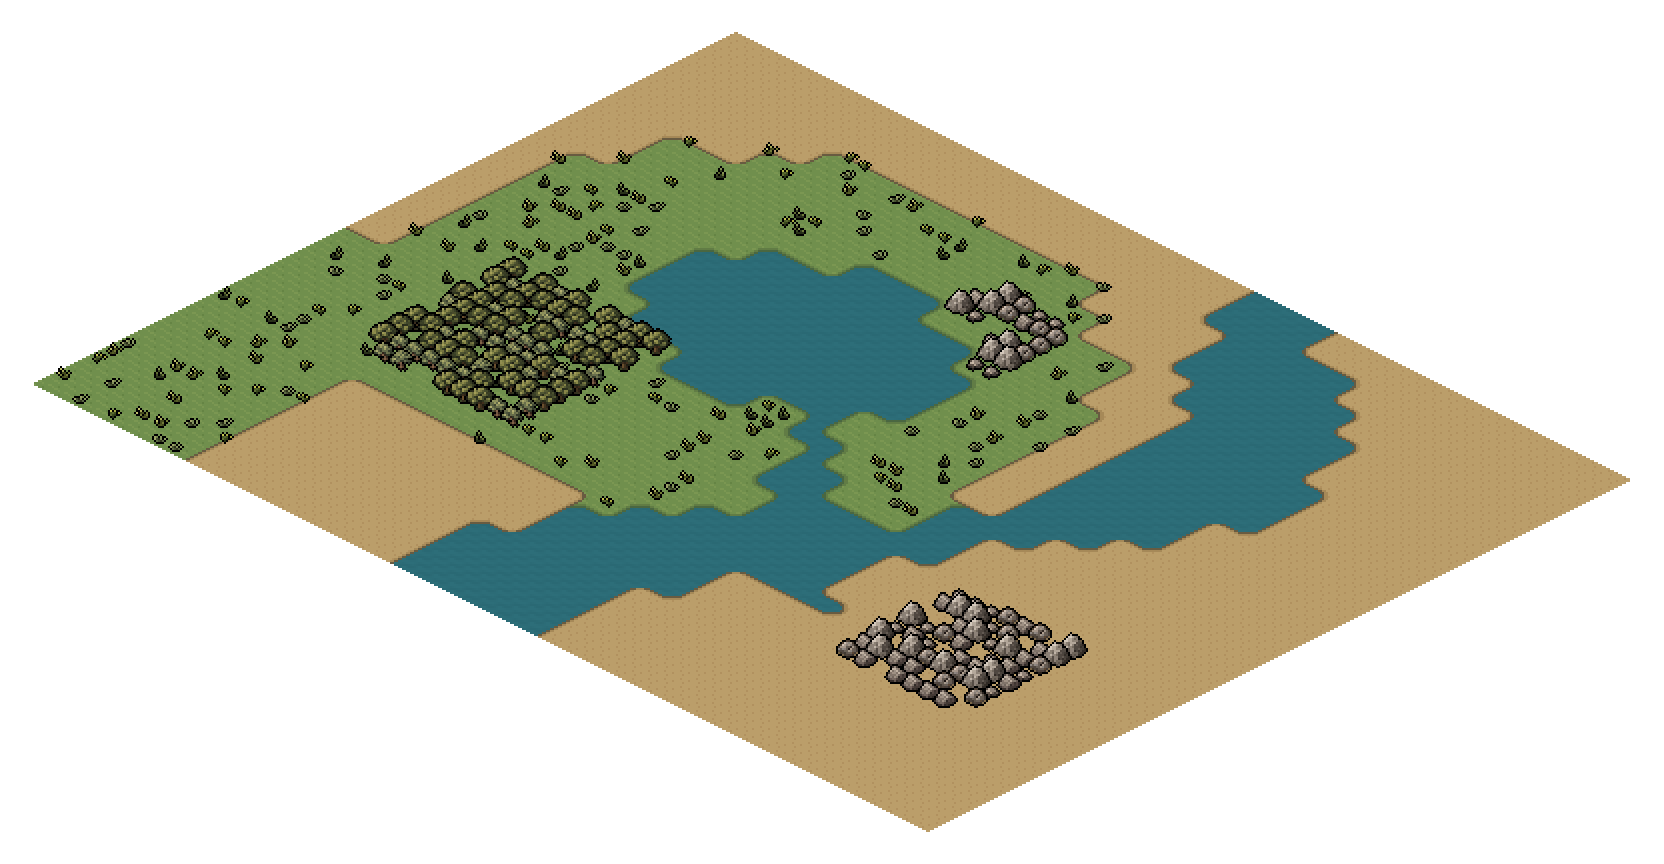
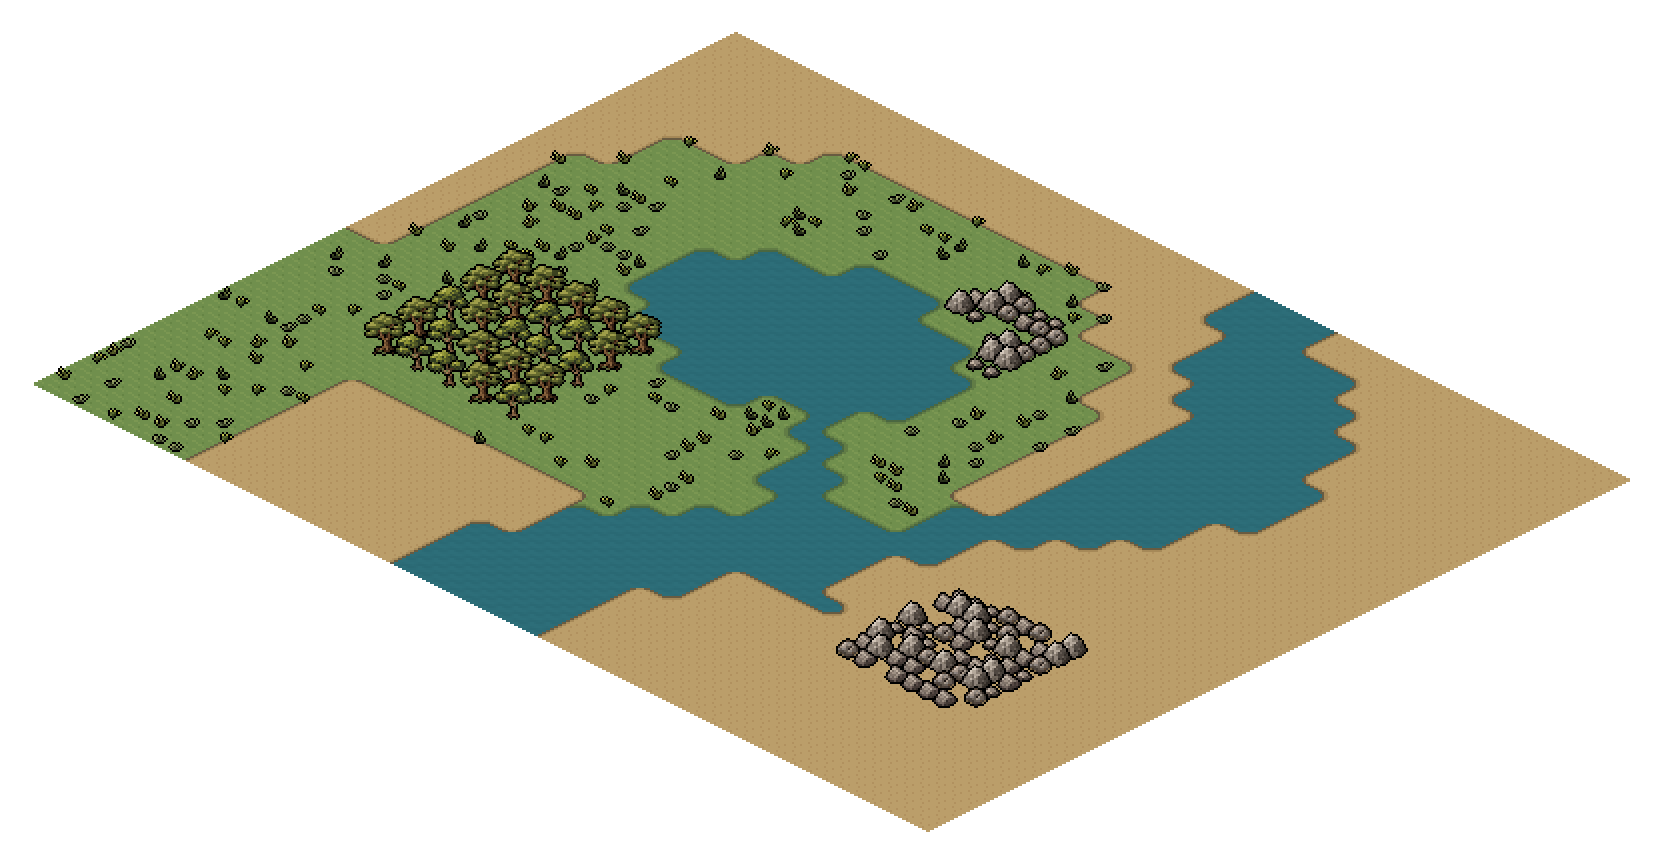
Redraw broad trees and place one tree per forest tile
Use newly drawn broad tree strips instead of the stretched attempt, sample them at wider game sizes, and anchor one tree at the center of each forest tile. Update runtime asset documentation and tests.

Changed region(s): [[0.2188, 0.2812, 0.4062, 0.5]]

diff --git a/internal/terrain/objects_test.go b/internal/terrain/objects_test.go
@@ -82,41 +82,31 @@ func TestDecoratedGroundAndDepth(t *testing.T) {
 	}
 }
 
-func TestForestMinimumAndMarginalProbabilities(t *testing.T) {
+func TestForestHasOneTileScaleTree(t *testing.T) {
 	w := New(256, 256)
 	for i := range w.cells {
 		w.SetTerrain(i%w.Width, i/w.Width, Forest)
 	}
 	counts := map[Object]int{}
-	three, four := 0, 0
+	trees := 0
 	for y := 0; y < w.Height; y++ {
 		for x := 0; x < w.Width; x++ {
-			n := 0
 			for _, object := range w.Objects(x, y) {
 				counts[object]++
 				if object == LargeTree || object == SmallTree {
-					n++
+					trees++
 				}
 			}
-			switch n {
-			case 3:
-				three++
-			case 4:
-				four++
-			default:
-				t.Fatal("forest has fewer than three trees", x, y, n)
+			if trees != y*w.Width+x+1 {
+				t.Fatal("forest must have exactly one tree per tile", x, y, trees)
+			}
+			if counts[Empty] != 3*(y*w.Width+x+1) {
+				t.Fatal("forest remaining subtiles must be empty", x, y)
 			}
 		}
 	}
-	total := float64(4 * w.Width * w.Height)
-	for object, want := range map[Object]float64{Empty: .1, LargeTree: .4, SmallTree: .4, GrassTuft1: .025, GrassTuft2: .025, GrassTuft3: .025, GrassTuft4: .025} {
-		fraction := float64(counts[object]) / total
-		if fraction < want-.004 || fraction > want+.004 {
-			t.Fatalf("forest object %d fraction %.4f", object, fraction)
-		}
-	}
-	if float64(three)/float64(three+four) < .79 || float64(three)/float64(three+four) > .81 {
-		t.Fatal("forest tile distribution", three, four)
+	if counts[LargeTree]+counts[SmallTree] != w.Width*w.Height {
+		t.Fatal("one tree per forest tile", counts)
 	}
 }
 

diff --git a/internal/assetbuild/build.go b/internal/assetbuild/build.go
@@ -20,7 +20,7 @@ func Generate(source, out string) error {
 	}
 	c := &graphics.Catalog{Manifest: graphics.Manifest{Version: 1, Sheets: []graphics.Sheet{
 		{File: "terrain.png", CellWidth: 16, CellHeight: 8, Columns: 8, Rows: 5},
-		{File: "objects.png", CellWidth: 24, CellHeight: 24, Columns: 8, Rows: 4},
+		{File: "objects.png", CellWidth: 24, CellHeight: 32, Columns: 8, Rows: 4},
 	}, Animations: map[string]graphics.Animation{}}}
 	for _, s := range c.Sheets {
 		c.Images = append(c.Images, image.NewNRGBA(image.Rect(0, 0, s.CellWidth*s.Columns, s.CellHeight*s.Rows)))
@@ -42,7 +42,7 @@ func Generate(source, out string) error {
 		}
 	}
 	for i, im := range objects {
-		if err := pack(1, i, im, image.Pt(12, 20), image.Pt(im.Bounds().Dx()/2, im.Bounds().Dy()-2)); err != nil {
+		if err := pack(1, i, im, image.Pt(12, 28), image.Pt(im.Bounds().Dx()/2, im.Bounds().Dy()-2)); err != nil {
 			return err
 		}
 	}
@@ -81,7 +81,7 @@ func Generate(source, out string) error {
 	if err != nil {
 		return err
 	}
-	return save(filepath.Join(out, "preview.png"), graphics.RenderPNG(c, items, scene.Bounds, 2))
+	return save(filepath.Join(out, "preview.png"), graphics.RenderPNG(c, items, graphics.SceneBounds(c, items, scene.Bounds), 2))
 }
 
 func save(path string, im image.Image) error {

diff --git a/internal/terrain/objects.go b/internal/terrain/objects.go
@@ -38,18 +38,9 @@ func (w *World) Objects(x, y int) [4]Object {
 	}
 	cell := w.Cell(x, y)
 	if cell.Decoration == Trees {
-		// Correlate four slots to retain 80/10/10 marginals AND at least three trees.
-		gap := -1
-		if roll(x, y, 0, 3, 5) < 4 {
-			gap = roll(x, y, 0, 4, 4)
-		}
-		for slot := range result {
-			if slot != gap {
-				result[slot] = tree(x, y, slot)
-			} else if roll(x, y, slot, 5, 2) == 0 {
-				result[slot] = tuft(x, y, slot)
-			}
-		}
+		// Forest is a tile-scale decoration: one broad tree per large tile,
+		// anchored at its center rather than one tree per subtile.
+		result[0] = tree(x, y, 0)
 		return result
 	}
 	for slot := range result {
@@ -91,6 +82,9 @@ func (w *World) Placements() []Placement {
 	return result
 }
 func (p Placement) Position() (float64, float64) {
+	if p.Object == LargeTree || p.Object == SmallTree {
+		return Project(float64(p.X)+.5, float64(p.Y)+.5)
+	}
 	return Project(float64(p.X)+float64(p.Slot%2)/2+.25, float64(p.Y)+float64(p.Slot/2)/2+.25)
 }
 

diff --git a/internal/assetbuild/objects.go b/internal/assetbuild/objects.go
@@ -19,7 +19,7 @@ var objectSources = []struct {
 	{"rock_medium2.png", 10, 9, 1}, {"rock_large.png", 14, 12, 1},
 	{"grass_0.png", 6, 5, 1}, {"grass_1.png", 6, 4, 1},
 	{"grass_2.png", 5, 5, 1}, {"grass_3.png", 6, 5, 1},
-	{"tree_0.png", 14, 12, 4}, {"tree_1.png", 12, 10, 4},
+	{"tree_0-redrawn.png", 22, 20, 4}, {"tree_1-redrawn.png", 20, 18, 4},
 }
 
 // blackOutline is a one-game-pixel, four-neighbor silhouette effect.
@@ -95,7 +95,7 @@ func LoadObjects(files fs.FS) ([terrain.ObjectSpriteCount]image.Image, error) {
 			// Keep the trunk/root pixels identical; only the crown uses animation frames.
 			if spec.Frames > 1 && frame > 0 {
 				base := sprites[index-frame]
-				for y := spec.Height - 3; y < spec.Height; y++ {
+				for y := spec.Height - max(3, spec.Height/3); y < spec.Height; y++ {
 					for x := 0; x < spec.Width; x++ {
 						sprite.Set(x, y, base.At(x, y))
 					}

diff --git a/internal/graphics/render.go b/internal/graphics/render.go
@@ -50,3 +50,12 @@ func Enlarge(src image.Image, scale int) *image.NRGBA {
 	}
 	return out
 }
+
+// SceneBounds includes tall sprites extending beyond the map's minimum export bounds.
+func SceneBounds(c *Catalog, items []DrawItem, minimum image.Rectangle) image.Rectangle {
+	for _, item := range items {
+		p := item.Position.Sub(c.Sprites[item.Sprite].Pivot)
+		minimum = minimum.Union(image.Rectangle{Min: p, Max: p.Add(c.Rect(item.Sprite).Size())})
+	}
+	return minimum
+}

diff --git a/render.go b/render.go
@@ -48,5 +48,5 @@ func (g *game) buildDrawList() []graphics.DrawItem {
 }
 func (g *game) exportImage(scale int) *image.NRGBA {
 	items := g.buildDrawList()
-	return graphics.RenderPNG(g.catalog, items, g.sceneCache.Ensure(g.w).Bounds, scale)
+	return graphics.RenderPNG(g.catalog, items, graphics.SceneBounds(g.catalog, items, g.sceneCache.Ensure(g.w).Bounds), scale)
 }

diff --git a/internal/terrain/scene_test.go b/internal/terrain/scene_test.go
@@ -21,7 +21,7 @@ func TestSceneCacheInvalidation(t *testing.T) {
 	}
 	w.SetTerrain(1, 1, Forest)
 	second := cache.Ensure(w)
-	if second == first || len(second.Decorations) < 3 {
+	if second == first || len(second.Decorations) != 1 {
 		t.Fatal("edit did not rebuild placements")
 	}
 	if cache.Ensure(w) != second {

diff --git a/README.md b/README.md
@@ -1,6 +1,6 @@
 # demo1 — 아이소메트릭 지형·오브젝트 에디터
 
-강·초원·황무지와 바위·나무 지형을 칠할 수 있는 Go/Ebitengine 데모입니다. **32×16픽셀 큰 타일**에 바닥과 장식 종류를 나누어 저장하고, 각 타일을 **16×8픽셀 서브타일 4개**로 그립니다. 지형 경계는 자동으로 연결되며, 잔디·바위·나무는 서브타일 단위로 배치됩니다.
+강·초원·황무지와 바위·나무 지형을 칠할 수 있는 Go/Ebitengine 데모입니다. **32×16픽셀 큰 타일**에 바닥과 장식 종류를 나누어 저장하고, 각 타일을 **16×8픽셀 서브타일 4개**로 그립니다. 지형 경계는 자동으로 연결되며, 잔디·바위는 서브타일 단위, 나무는 큰 타일 하나당 하나씩 배치됩니다.
 
 자료구조, 함수 호출 흐름, ASCII 아키텍처는 [ARCHITECTURE.md](ARCHITECTURE.md)를 참고하세요.
 
@@ -123,19 +123,19 @@ screenY = (u + v) × 8
 
 각 큰 타일의 서브타일 4칸마다 **최대 1개의 오브젝트**를 배치합니다. 바위나 나무를 직접 선택해 놓는 방식이 아니라, 큰 타일의 지형 종류에 따라 자동으로 정합니다.
 
-![게임용 오브젝트 시트 — 24×24 셀](assets/generated/objects.png)
+![게임용 오브젝트 시트 — 24×32 셀](assets/generated/objects.png)
 
 ### 종류와 크기
 
-크기는 투명 여백을 제외하고 게임 해상도로 샘플링하는 크기입니다. 외곽선은 가로·세로에 각각 2픽셀을 추가합니다. 잔디는 흔들림을 위해 가로 4픽셀 여백도 사용합니다. 최종 그림은 공통 24×24픽셀 셀에 발밑을 맞춰 넣습니다.
+크기는 투명 여백을 제외하고 게임 해상도로 샘플링하는 크기입니다. 외곽선은 가로·세로에 각각 2픽셀을 추가합니다. 잔디는 흔들림을 위해 가로 4픽셀 여백도 사용합니다. 최종 그림은 공통 24×32픽셀 셀에 발밑을 맞춰 넣습니다.
 
 | 오브젝트 | 종류 | 외곽선 추가 전 크기 |
 |---|---|---|
 | 바위 | 소 / 중 / 중2 / 대 | 8×6 / 11×8 / 10×9 / 14×12 |
 | 잔디 | 4종 | 6×5 / 6×4 / 5×5 / 6×5 |
-| 나무 | 큰 나무 / 작은 나무 | 14×12 / 12×10 |
+| 나무 | 큰 나무 / 작은 나무 | 22×20 / 20×18 |
 
-모든 오브젝트에는 상하좌우 실루엣을 따라 **1픽셀 검은 외곽선**을 붙입니다. 외곽선은 `assetgen`에서 게임 해상도로 생성하며, 원본 PNG는 보존합니다. 게임은 완성된 시트만 읽습니다. 외곽선 여백이 생겨도 발밑 기준점은 유지합니다.
+모든 오브젝트에는 상하좌우 실루엣을 따라 **1픽셀 검은 외곽선**을 붙입니다. 외곽선은 `assetgen`에서 게임 해상도로 생성하며, 원본 PNG는 보존합니다. 게임은 완성된 시트만 읽습니다. 나무 원본은 새로 그린 `tree_0-redrawn.png`, `tree_1-redrawn.png`를 사용하며 이전 원본은 보존합니다. 외곽선 여백이 생겨도 발밑 기준점은 유지합니다.
 
 오브젝트는 서브타일 중앙에 발밑을 맞추고 화면 아래쪽에 있는 것이 나중에 그려지도록 정렬합니다. 지형 전체를 먼저 그린 뒤 오브젝트를 그리므로 이웃 바닥이 나무나 바위를 덮지 않습니다.
 
@@ -146,18 +146,11 @@ screenY = (u + v) × 8
 | 강·황무지 | 없음 | 없음 | 없음 | 100% |
 | 초원 | 없음 | 없음 | 총 25% — 4종 각각 6.25% | 75% |
 | 바위(초원)·바위(황무지) | 없음 | 총 80% — 4종 각각 20% | 없음 | 20% |
-| 나무(초원) | 총 80% — 2종 각각 40% | 없음 | 총 10% — 4종 각각 2.5% | 10% |
+| 나무(초원) | 타일당 1개 — 2종 각각 50% | 없음 | 없음 | 없음 |
 
 표의 확률은 서브타일 기준입니다. 유한한 지도에서 실제 개수가 비율과 정확히 같아지는 것은 아닙니다.
 
-나무(초원)는 **큰 타일마다 나무 최소 3개**를 보장하기 위해 네 칸을 연관 지어 정합니다.
-
-1. 80% 확률로 나무 3개, 20% 확률로 나무 4개를 배치합니다.
-2. 나무 3개인 경우, 남길 서브타일 한 칸을 균등하게 고릅니다.
-3. 그 칸에는 50% 확률로 잔디, 50% 확률로 아무것도 놓지 않습니다.
-4. 나무 2종과 잔디 4종은 각각 균등하게 선택합니다.
-
-이렇게 하면 최소 3개 조건과 서브타일별 나무 80%·잔디 10%·빈칸 10%를 함께 만족합니다. 나무 지형의 네 서브타일은 독립 추첨이 아닙니다.
+나무(초원)는 **큰 타일 하나에 나무 하나**를 중앙에 배치합니다. 네 서브타일 중 하나를 고르는 방식이 아니며, 나무 종류만 좌표 해시로 균등하게 선택합니다. 나무는 타일 규모의 장식이므로 바위·잔디처럼 서브타일마다 독립 배치하지 않습니다.
 
 ### 결정적 의사난수
 
@@ -174,7 +167,7 @@ screenY = (u + v) × 8
 
 물은 대비가 낮은 잔물결과 짧은 수평 반사광을 사용합니다. 공간·시간 주기 함수로 이웃 타일의 무늬와 마지막→첫 프레임을 연결합니다. 초원·황무지 바닥과 바위는 애니메이션하지 않습니다. 잔디는 뿌리를 고정하고 잎을 좌우로 흔듭니다. 식물 속도는 UI에서 1/2/4/8배로 변경할 수 있으며 기본값은 2배입니다.
 
-나무는 잎 부분만 움직이며 원래 스프라이트의 아래 3행에 있는 줄기·뿌리는 고정합니다. 각 나무에 **0–7.875초의 시작 위상**을 0.125초 단위로 부여하므로 표시 프레임뿐 아니라 프레임 전환 시점도 분산됩니다. 위상은 좌표로 고정되고, 재실행하면 같은 위상을 가진 애니메이션이 실행 시작 시간을 기준으로 다시 재생됩니다. 현재 재생 시각은 지도에 저장하지 않습니다.
+나무는 잎 부분만 움직이며 새로 그린 나무 스프라이트의 하단 약 1/3(큰 나무 8행, 작은 나무 6행)에 있는 줄기·뿌리는 고정합니다. 각 나무에 **0–7.875초의 시작 위상**을 0.125초 단위로 부여하므로 표시 프레임뿐 아니라 프레임 전환 시점도 분산됩니다. 위상은 좌표로 고정되고, 재실행하면 같은 위상을 가진 애니메이션이 실행 시작 시간을 기준으로 다시 재생됩니다. 현재 재생 시각은 지도에 저장하지 않습니다.
 
 ## 저장 형식과 이전 지도 호환
 
@@ -215,7 +208,7 @@ screenY = (u + v) × 8
 
 ## PNG 내보내기와 에셋 생성
 
-`P`는 현재 물 프레임과 각 나무의 위상을 반영한 장면을 **4배 PNG**로 `map-export.png`에 저장합니다. 편집기 패널과 격자는 포함하지 않습니다. 지도 가장자리 오브젝트가 잘리지 않도록 원본 해상도 기준 사방 16픽셀 여백을 둡니다.
+`P`는 현재 물 프레임과 각 나무의 위상을 반영한 장면을 **4배 PNG**로 `map-export.png`에 저장합니다. 편집기 패널과 격자는 포함하지 않습니다. 지도 가장자리 오브젝트가 잘리지 않도록 원본 해상도 기준 사방 최소 16픽셀 여백을 두고, 큰 스프라이트가 범위를 벗어나면 출력 영역을 자동으로 넓힙니다.
 
 `-screenshot`은 패널을 포함한 **실제 편집기 화면**을 저장하는 별도 기능입니다.
 
@@ -235,7 +228,7 @@ go run . -map example-map.json -screenshot assets/editor-preview.png
 | 생성 파일 | 구성 |
 |---|---|
 | terrain.png | 16×8 셀, 8열×5행, 128×40px. 지형 38종 |
-| objects.png | 24×24 셀, 8열×4행, 192×96px. 바위 4장 + 나무 8프레임 + 잔디 16프레임 |
+| objects.png | 24×32 셀, 8열×4행, 192×128px. 바위 4장 + 나무 8프레임 + 잔디 16프레임 |
 | catalog.json | 시트 크기, 셀 번호, 발밑 피벗, 애니메이션 프레임과 시간 |
 | preview.png | 생성 에셋을 사용하는 샘플 장면의 2배 PNG |
 
@@ -282,7 +275,7 @@ DEMO1_WINDOW_TEST=1 go test -count=1
 - 공유 꼭짓점·경계, 강 중심, 고립된 강·수로·합류·대각선·맵 가장자리.
 - 마름모 픽셀의 빈틈·중복, 좌표 투영과 큰 타일 선택.
 - 생성 시트·카탈로그 재현성, 이전 출력과 픽셀 단위 일치, 물의 공간 주기·반복, 고정 육지 레이어.
-- 초원·바위·나무 배치 확률과 나무 최소 3개 조건.
+- 초원·바위 배치 확률과 타일당 나무 1개 조건.
 - 오브젝트 지형의 바닥 경계 유지, 깊이 정렬, 1픽셀 검은 외곽선.
 - 나무·잔디 4프레임과 뿌리 고정, 위상 분포·전환 시점 분산·주기 반복.
 - 캐시 갱신, 바닥·장식 분리, 버전 5 검증, 공통 깊이 정렬과 카탈로그 검증.

diff --git a/ARCHITECTURE.md b/ARCHITECTURE.md
@@ -173,7 +173,7 @@ main()
 
 exportImage(scale)
  +--> buildDrawList()                  화면과 같은 장면 생성 함수
- +--> graphics.RenderPNG(catalog, 목록, MapScene.Bounds, scale)
+ +--> graphics.RenderPNG(catalog, 목록, SceneBounds(catalog, 목록, MapScene.Bounds), scale)
        +--> image/draw로 셀 합성
        +--> 정수배 최근접 확대
 ```
@@ -185,9 +185,9 @@ exportImage(scale)
 | 시트 | 셀 | 격자 | 전체 크기 | 사용 셀 | Pivot |
 |---|---|---|---|---|---|
 | terrain.png | 16×8 | 8열×5행 | 128×40 | 38 / 40 | (8, 0) |
-| objects.png | 24×24 | 8열×4행 | 192×96 | 28 / 32 | (12, 20) |
+| objects.png | 24×32 | 8열×4행 | 192×128 | 28 / 32 | (12, 28) |
 
-지형 ID 0–37은 기존 타일 순서 그대로다. 장식 ID는 38부터 시작한다. 바위 4프레임(각 종류 1장), 나무 8프레임(2종×4), 잔디 16프레임(4종×4)을 포함한다. 장식은 원래 그림의 크기를 유지하고 투명 여백으로 공통 셀 크기와 피벗을 맞춘다.
+지형 ID 0–37은 기존 타일 순서 그대로다. 장식 ID는 38부터 시작한다. 바위 4프레임(각 종류 1장), 나무 8프레임(2종×4), 잔디 16프레임(4종×4)을 포함한다. 장식은 원래 그림의 크기를 유지하고 투명 여백으로 공통 셀 크기와 피벗을 맞춘다. 숲 장식은 서브타일 4칸에 분산하지 않고 큰 타일 중앙에 하나만 배치한다.
 
 ```text
 카탈로그의 셀 선택:
@@ -207,7 +207,7 @@ PNG에서 그릴 왼쪽 위 (확대 전):
   point = Position - Pivot - exportBounds.Min
 ```
 
-피벗은 이미지 높이에서 추정하지 않고 카탈로그에 명시한다. 장식의 실제 픽셀과 발밑 위치는 리팩터링 이전 출력과 동일하다. 원본 PNG의 축소·외곽선·잔디 변형은 `assetbuild`에서만 실행된다.
+피벗은 이미지 높이에서 추정하지 않고 카탈로그에 명시한다. 장식의 발밑 위치는 유지한다. 나무는 줄기와 수관부터 새로 그린 `tree_0-redrawn.png`, `tree_1-redrawn.png`를 사용한다. 게임 해상도는 큰 나무 22×20, 작은 나무 20×18이며 이전 원본을 세로로 늘려 사용하지 않는다. PNG 출력은 `graphics.SceneBounds()`로 나무가 잘리지 않도록 범위를 확장한다. 원본 PNG의 축소·외곽선·잔디 변형은 `assetbuild`에서만 실행된다.
 
 시간의 기본 단위는 125ms다. 물은 1 tick마다 8프레임을 순환한다. 나무·잔디는 기본 16 ticks마다 4프레임을 순환하며 좌표별 위상이 있다. 편집기의 식물 속도 기본값은 2배이고 1/2/4/8배를 선택할 수 있다. 카탈로그의 `Animation.Frame()`은 반복과 비반복의 마지막 프레임 유지 모두 지원한다.
 

diff --git a/assets/objects/TREES-REDRAW.md b/assets/objects/TREES-REDRAW.md
@@ -1,0 +1,17 @@
+# Tall tree redraw
+
+Generated with the built-in image_gen tool. These replace the stretched-tree attempt with newly drawn trunks, branches and round foliage clusters. Original tree_0.png and tree_1.png remain as historical source art; runtime generation reads tree_0-redrawn.png and tree_1-redrawn.png.
+
+Both selected source PNGs have genuine RGBA transparency, four horizontal animation cells, and are passed through the existing assetgen sampling/outline pipeline. Target body sizes: 14×24 and 12×20. The lower third of the trunk/root pixels is pinned to the first frame during preparation.
+
+## tree_0-redrawn.png
+
+A transparent PNG sprite sheet of four animation frames of one tall deciduous tree. Alpha background, isolated cutouts. Exactly four trees evenly spaced in one horizontal row on a 1536 by 768 canvas. Naturally tall tree anatomy: round layered olive green foliage clusters in upper 60 percent, visible forked brown trunk and roots in lower 40 percent, overall width to height ratio 0.58. Original chunky pixel art for a tiny isometric strategy game, readably simple shapes and 3 muted olive shades, illuminated from upper left. Same tree in four slight foliage sway poses, all trunks and roots remain identical in position. Safe margins. No text or shadows. Transparent background.
+
+## tree_1-redrawn.png
+
+A transparent PNG sprite sheet of four animation frames of one young deciduous tree, smaller companion to a tall mature tree. Alpha background, isolated cutouts. Exactly four trees evenly spaced in one horizontal row on a 1536 by 768 canvas. Natural tall sapling anatomy: THREE broad round foliage clusters, one large rounded crown at top and two offset smaller rounded clusters on left and right beneath, slender slightly bent brown trunk with one Y fork, modest roots. Crown in upper 60 percent and visible trunk in lower 40 percent. Overall width to height ratio 0.60. Original chunky pixel art for a tiny isometric strategy game, readable at 12x20 logical pixels; simple shapes, muted olive green palette, 3 foliage shades and 2 bark shades, illuminated from upper left, elevated three-quarter view. Same tree in four slight foliage sway poses: neutral, right, settled, left. All trunks and roots remain identical in position. Safe margins. No text or shadows. Transparent background.
+
+## Discarded attempts
+
+The initial reference-based redraw and its background-removal revision produced RGB images with a painted checkerboard. Neither is used in the project.
